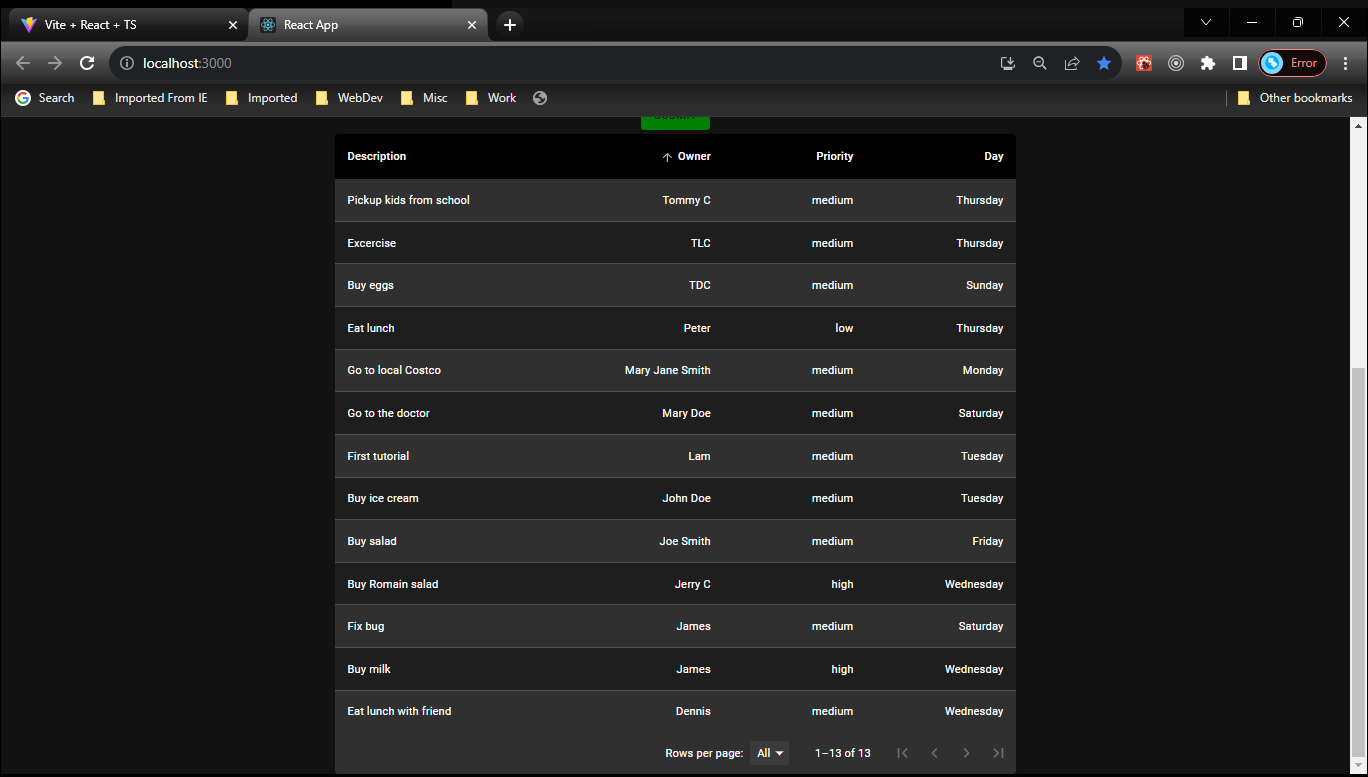
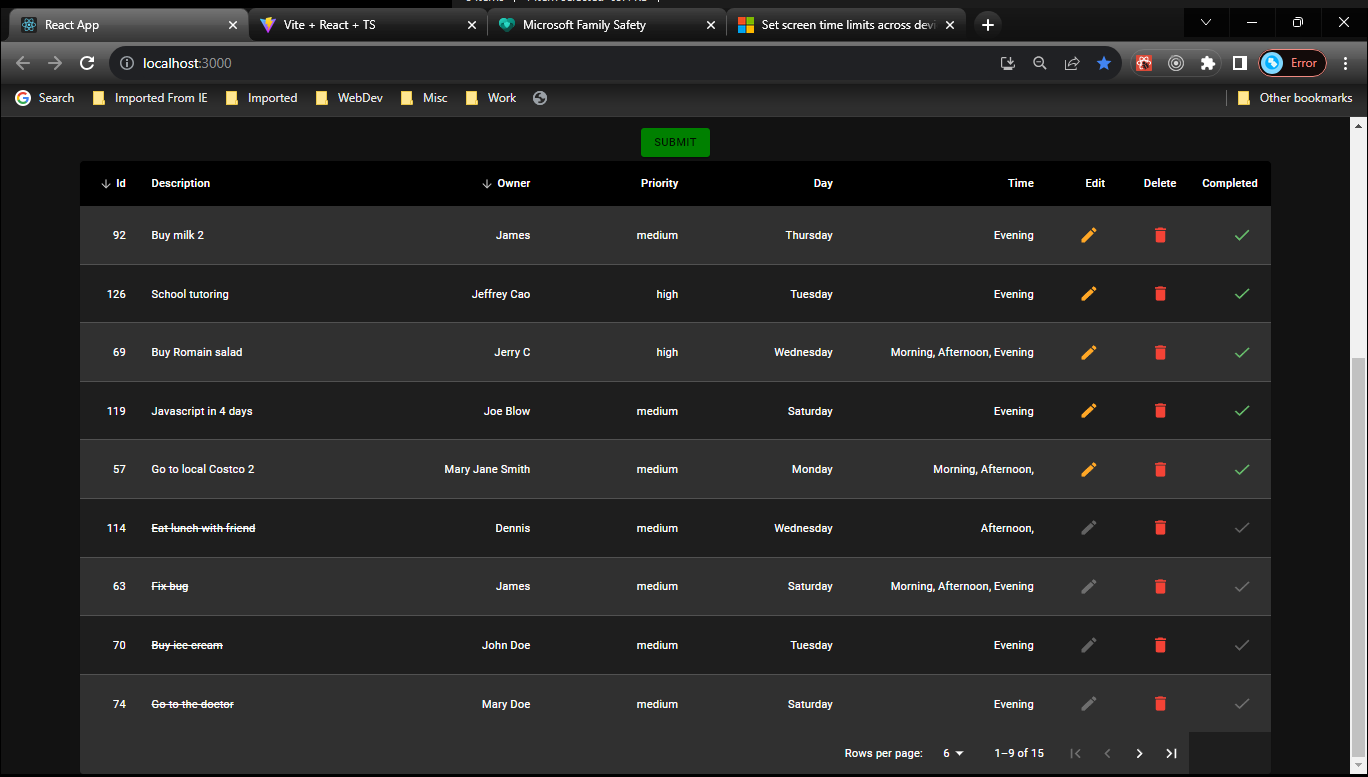
Add id number sorting and include full table

diff --git a/client/src/components/ListTodos.tsx b/client/src/components/ListTodos.tsx
@@ -16,9 +16,9 @@ import KeyboardArrowRight from '@mui/icons-material/KeyboardArrowRight';
 import LastPageIcon from '@mui/icons-material/LastPage';
 import TableSortLabel from "@mui/material/TableSortLabel";
 import { useTheme, styled } from '@mui/material/styles';
-// import EditTodo from "./EditTodo";
-// import DeleteIcon from "@mui/icons-material/Delete";
-// import DoneIcon from "@mui/icons-material/Done";
+import EditTodo from "./EditTodo";
+import DeleteIcon from "@mui/icons-material/Delete";
+import DoneIcon from "@mui/icons-material/Done";
 
 import todoType from '../types'
 
@@ -113,7 +113,7 @@ const StyledTableRow = styled(TableRow)(({ theme }) => ({
 const ListTodos = () => {
   const [todos, setTodos] = useState<ToDoContainer>([]);
   const [page, setPage] = React.useState(0);
-  const [rowsPerPage, setRowsPerPage] = React.useState(6);
+  const [rowsPerPage, setRowsPerPage] = React.useState(3);
 
   const getTodos = async () => {
     try {
@@ -125,42 +125,42 @@ const ListTodos = () => {
     }
   };
 
-  // const deleteTodo = async (id: string) => {
-  //   try {
-  //     await fetch(
-  //       `http://localhost:5000/todos/${id}`,
-  //       {
-  //         method: "DELETE",
-  //       }
-  //     );
-  //     setTodos(todos.filter((todo) => todo.todo_id !== id));
-  //   } catch (error) {
-  //     console.error(error.message);
-  //   }
-  // };
+  const deleteTodo = async (id: string) => {
+    try {
+      await fetch(
+        `http://localhost:5000/todos/${id}`,
+        {
+          method: "DELETE",
+        }
+      );
+      setTodos(todos.filter((todo) => todo.todo_id !== id));
+    } catch (error) {
+      console.error(error.message);
+    }
+  };
 
-  // const completeTodo = async (id: string) => {
-  //   try {
-  //     const body = { completed: true };
-  //     await fetch(
-  //       `http://localhost:5000/todos/${id}`,
-  //       {
-  //         method: "PUT",
-  //         headers: { "Content-Type": "application/json" },
-  //         body: JSON.stringify(body),
-  //       }
-  //     );
-  //     setTodos(
-  //       todos.map((todo) => {
-  //         return todo.todo_id === id ? { ...todo, completed: true } : todo;
-  //       })
-  //     );
-  //     // window.location.href = "/";
-  //     window.location.reload();
-  //   } catch (error) {
-  //     console.error(error.message);
-  //   }
-  // };
+  const completeTodo = async (id: string) => {
+    try {
+      const body = { completed: true };
+      await fetch(
+        `http://localhost:5000/todos/${id}`,
+        {
+          method: "PUT",
+          headers: { "Content-Type": "application/json" },
+          body: JSON.stringify(body),
+        }
+      );
+      setTodos(
+        todos.map((todo) => {
+          return todo.todo_id === id ? { ...todo, completed: true } : todo;
+        })
+      );
+      // window.location.href = "/";
+      window.location.reload();
+    } catch (error) {
+      console.error(error.message);
+    }
+  };
 
   useEffect(() => {
     getTodos();
@@ -205,13 +205,37 @@ const ListTodos = () => {
     setOrderDirection(orderDirection === "asc" ? "desc" : "asc");
   }
 
+  const sortArray = (arr: todoType[], orderBy: orderType) => {
+    switch (orderBy) {
+      case "asc":
+      default:
+        return arr.sort((a: todoType, b: todoType) =>
+          a.todo_id > b.todo_id ? 1 : b.todo_id > a.todo_id ? -1 : 0
+        );
+      case "desc":
+        return arr.sort((a: todoType, b: todoType) =>
+          a.todo_id < b.todo_id ? 1 : b.todo_id < a.todo_id ? -1 : 0
+        );
+    }
+  };
+
+  const handleSortRequest = () => {
+    setTodos(sortArray(todos, orderDirection));
+    setOrderDirection(orderDirection === "asc" ? "desc" : "asc");
+  };
+
   return (
     <>
       <TableContainer component={Paper}>
-        <Table sx={{ mt:4 }} aria-label="custom pagination table">
+        <Table sx={{ width: "100%" }} aria-label="custom pagination table">
           <TableHead>
             <StyledTableRow>
-              <StyledTableCell>Description</StyledTableCell>
+            <StyledTableCell align="right" onClick={handleSortRequest}>
+                <TableSortLabel active={true} direction={orderDirection}>
+                  Id
+                </TableSortLabel>
+              </StyledTableCell>
+              <StyledTableCell align="left">Description</StyledTableCell>
               <StyledTableCell align="right" onClick={handleAlphaSort}>
                 <TableSortLabel active={true} direction={orderDirection}>
                   Owner
@@ -220,32 +244,67 @@ const ListTodos = () => {
               <StyledTableCell align="right">Priority</StyledTableCell>
               <StyledTableCell align="right">Day</StyledTableCell>
               <StyledTableCell align="right">Time</StyledTableCell>
+              <StyledTableCell align="right">Edit</StyledTableCell>
+              <StyledTableCell align="right">Delete</StyledTableCell>
+              <StyledTableCell align="right">Completed</StyledTableCell>
             </StyledTableRow>
           </TableHead>
           <TableBody>
             {(rowsPerPage > 0
               ? todos.slice(page * rowsPerPage, page * rowsPerPage + rowsPerPage)
               : todos
-            ).map((row: todoType) => (
+            ).sort((a, b) => +a.completed - +b.completed)
+              .map((row: todoType) => (
+                
               <StyledTableRow key={row.todo_id}>
-                <StyledTableCell style={{ width: 450 }} component="th" scope="row">
+                <StyledTableCell style={{ width: 75 }} align="right">
+                  {row.todo_id}
+                </StyledTableCell>
+                <StyledTableCell 
+                  style={
+                    row.completed ? { textDecoration: "line-through", width: 450 } : { width: 450 }
+                  }
+                  component="th" 
+                  scope="row"
+                >
                   {row.description}
                 </StyledTableCell>
                 <StyledTableCell style={{ width: 250 }} align="right">
                   {row.owner}
                 </StyledTableCell>
-
                 <StyledTableCell style={{ width: 250 }} align="right">
                   {row.priority}
                 </StyledTableCell>
                 <StyledTableCell style={{ width: 250 }} align="right">
                   {row.day}
                 </StyledTableCell>
-                <StyledTableCell style={{ width: 250 }} align="right">
-                    {row.morning? 'Morning, ': ''} 
-                    {row.afternoon? 'Afternoon, ': ''} 
-                    {row.evening? 'Evening': ''}
+                <StyledTableCell style={{ width: 350 }} align="right">
+                  {row.morning? 'Morning, ': ''} 
+                  {row.afternoon? 'Afternoon, ': ''} 
+                  {row.evening? 'Evening': ''}
                 </StyledTableCell>
+                <StyledTableCell style={{ width: 100 }} align="right">
+                    < EditTodo todo={row} />
+                  </StyledTableCell>
+                  <StyledTableCell style={{ width: 100 }} align="right">
+                    <IconButton
+                      component="button"
+                      onClick={() => deleteTodo(row.todo_id)}
+                      color="error"
+                    >
+                      <DeleteIcon />
+                    </IconButton>
+                  </StyledTableCell>
+                   <StyledTableCell  style={{ width: 100 }} align="right">
+                    <IconButton
+                      component="button"
+                      onClick={() => completeTodo(row.todo_id)}
+                      disabled={row.completed}
+                      color="success"
+                    >
+                      <DoneIcon />
+                    </IconButton>
+                  </StyledTableCell>
               </StyledTableRow>
             ))}
             {emptyRows > 0 && (
@@ -258,7 +317,7 @@ const ListTodos = () => {
             <StyledTableRow>
               <TablePagination
                 rowsPerPageOptions={[6, 12, 18, { label: 'All', value: -1 }]}
-                colSpan={5}
+                colSpan={8}
                 count={todos.length}
                 rowsPerPage={rowsPerPage}
                 page={page}
